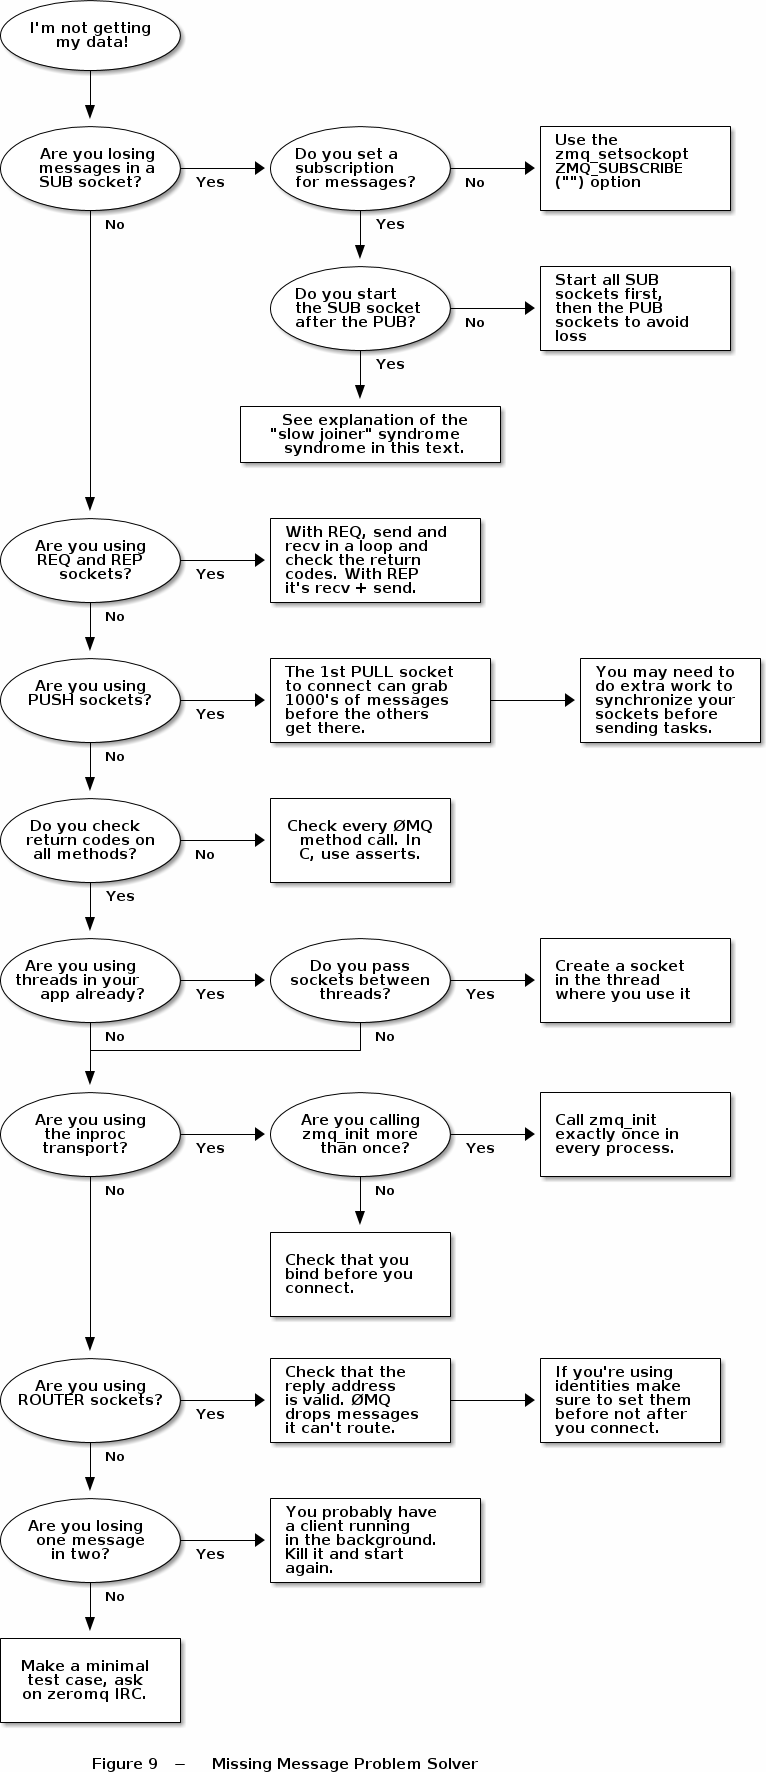
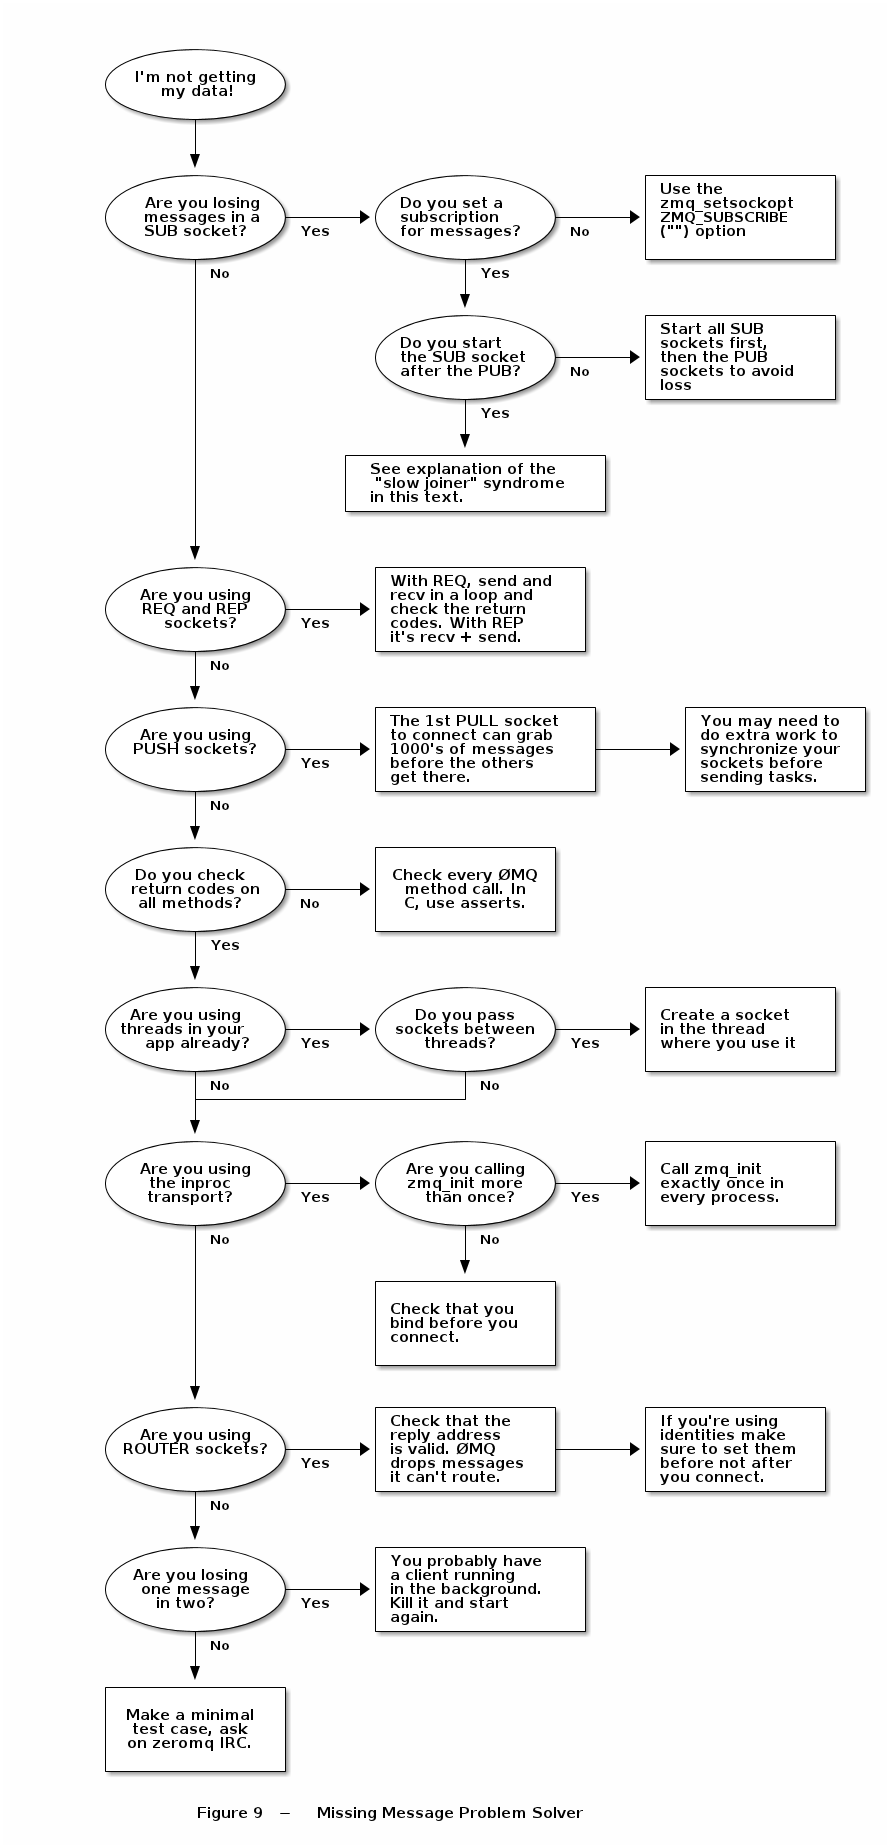
Updated guide

diff --git a/images/fig9.html b/images/fig9.html
@@ -32,7 +32,7 @@
                  |              +-------------------------+
                  |              |  See explanation of the |
                  |              | "slow joiner" syndrome  |
-                 |              |  syndrome in this text. |
+                 |              |  in this text.          |
                  |              +-------------------------+
                  |
                  |
